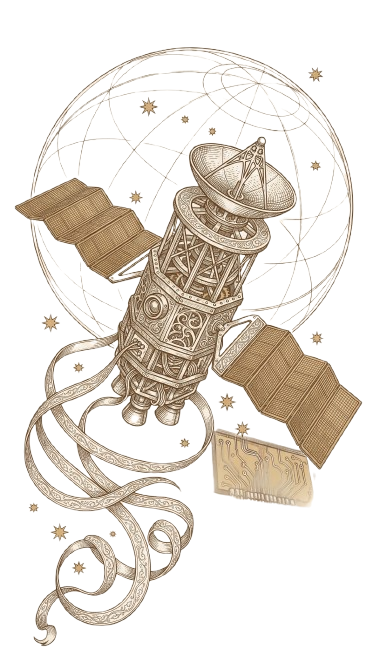
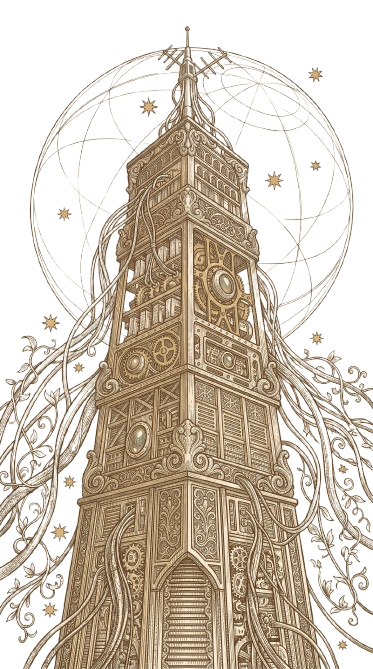
Added new features

diff --git a/src/components/sections/Hero.jsx b/src/components/sections/Hero.jsx
@@ -41,6 +41,41 @@ export default function Hero({ ready = true }) {
         .from(fades, { y: 22, opacity: 0, duration: 1, stagger: 0.09 }, "-=0.85")
         .from(arts, { yPercent: 12, opacity: 0, duration: 1.6, stagger: 0.12 }, "-=1.2");
 
+      /*
+       * MOBILE — VA-ET-VIENT RÉGULIER DES VISUELS
+       *
+       * Sur grand écran, les images vivent déjà : chaque éclat de
+       * <SharedMedia> flotte de son côté et dérive au scroll. Ce mouvement
+       * est volontairement désordonné, donc illisible sur un petit écran.
+       *
+       * En mobile on anime donc le CONTENEUR entier : les deux visuels
+       * montent et descendent d'un seul bloc, à vitesse constante et en
+       * boucle (yoyo), ce qui donne un balancement régulier.
+       *
+       * `matchMedia` de GSAP : l'animation n'existe QUE sous 1024 px et est
+       * défaite automatiquement au-delà (ou à la rotation de l'écran).
+       */
+      const mm = gsap.matchMedia();
+
+      mm.add("(max-width: 1023px)", () => {
+        arts.forEach((art, i) => {
+          gsap.to(art, {
+            // sens opposé d'une image à l'autre : le duo respire
+            y: i % 2 === 0 ? 14 : -14,
+            duration: 2.6,
+            ease: "sine.inOut",
+            repeat: -1,
+            yoyo: true,
+            /*
+              On attend la fin de l'animation d'arrivée (`tl`, qui anime ces
+              mêmes éléments en yPercent) : sans ce décalage les deux tweens
+              écrivent la même transform en même temps et l'entrée saccade.
+            */
+            delay: tl.duration() + i * 0.35,
+          });
+        });
+      });
+
       // parallaxe de sortie : le texte part plus vite que les images
       gsap.to(el.querySelector("[data-hero-text]"), {
         yPercent: -18,
@@ -67,7 +102,17 @@ export default function Hero({ ready = true }) {
       {/* colonnes d'images décoratives, gauche + droite */}
       <div
         data-art
-        className="pointer-events-none absolute -left-24 top-0 hidden h-full w-[26vw] max-w-[380px] lg:block"
+        /*
+          MOBILE : le visuel gauche est ancré EN BAS À GAUCHE.
+
+          Il passe AU-DESSUS du voile de lisibilité (z-[6], comme le visuel
+          droit) pour rester réellement visible, mais il est cantonné à la
+          bande sous les boutons : `h-[16vh]` collé en bas, donc les deux
+          appels à l'action restent entièrement dégagés.
+
+          À partir de `lg` il retrouve sa colonne pleine hauteur d'origine.
+        */
+        className="pointer-events-none absolute -left-10 bottom-0 z-[6] block h-[34vh] w-[62vw] max-w-[260px] lg:-left-24 lg:bottom-auto lg:top-0 lg:z-0 lg:h-full lg:w-[26vw] lg:max-w-[380px]"
       >
         <SharedMedia
           src={HeroImageLeft}
